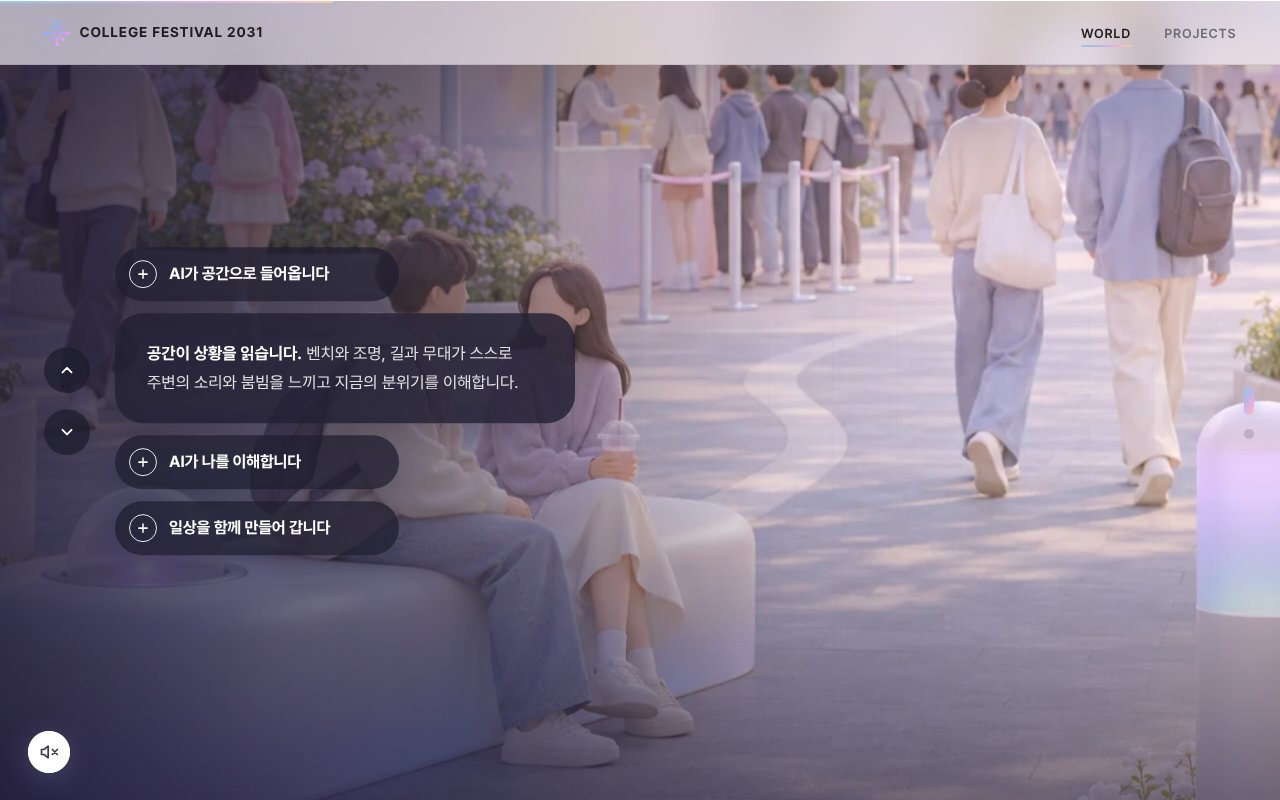
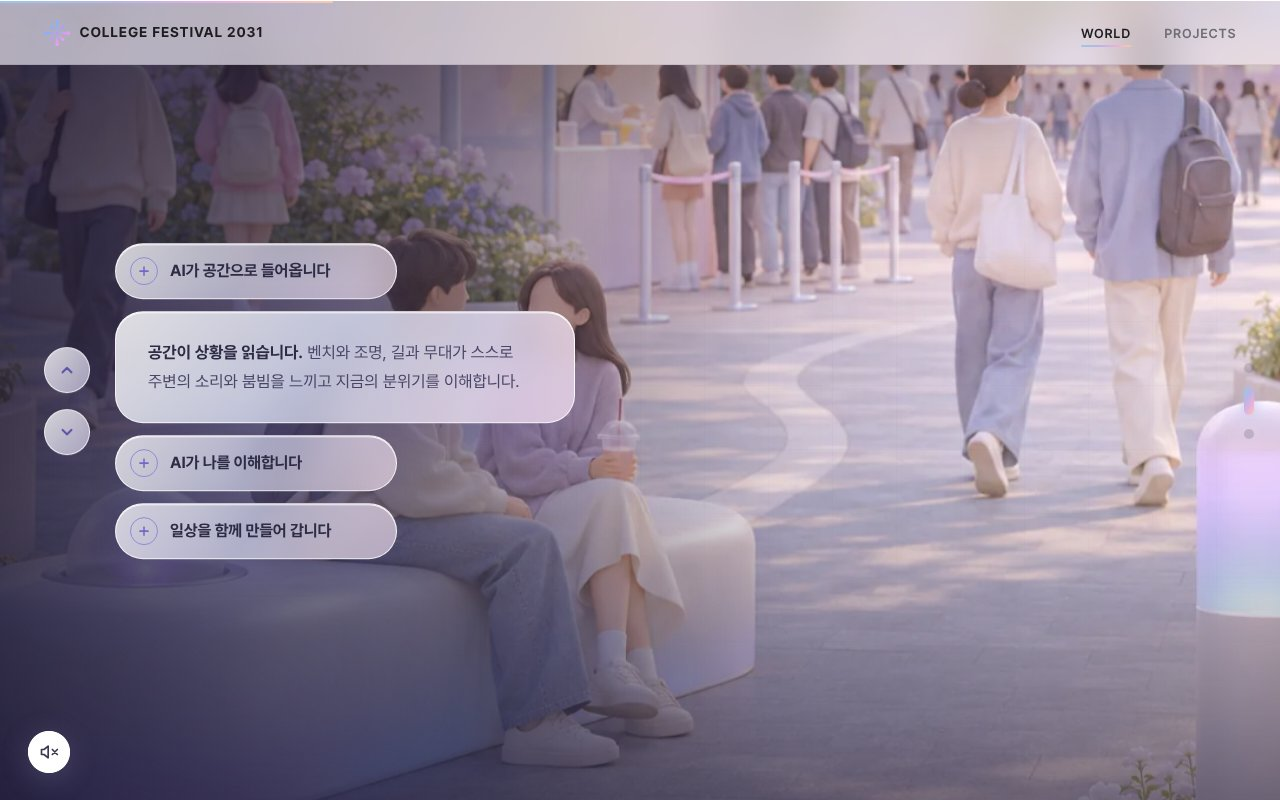
WORLD 챕터 알약·카드·화살표를 검정에서 연한 파스텔 그라데이션 글라스모피즘으로
Claude-Session: https://claude.ai/code/session_01MVD1fmE3ZHHAawXfDg3rwx

Changed region(s): [[0.0312, 0.2812, 0.4688, 0.7188]]

diff --git a/assets/css/style.css b/assets/css/style.css
@@ -1148,24 +1148,26 @@ body:has(#detail.open) .snd,body:has(#detail.open) .day-clock{opacity:0;pointer-
 #world-a .wa-copy,#world-a .wa-prog{display:none!important}
 .wa-feat{position:absolute;left:clamp(16px,3.4vw,56px);top:50%;z-index:6;display:flex;align-items:center;gap:clamp(14px,2vw,30px);opacity:0;visibility:hidden}
 .wf-arrows{display:flex;flex-direction:column;gap:16px}
-.wf-arr{width:46px;height:46px;border-radius:50%;border:0;display:grid;place-items:center;cursor:pointer;color:#fff;background:rgba(30,28,46,.74);transition:background .25s,opacity .25s,transform .25s}
-.wf-arr:hover{background:rgba(52,48,78,.9);transform:scale(1.06)}.wf-arr:disabled{opacity:.35;cursor:default;transform:none}
-.wf-arr:focus-visible,.wf-pill:focus-visible{outline:2px solid #C9C6FF;outline-offset:3px}
+.wf-arr{width:46px;height:46px;border-radius:50%;border:1px solid rgba(255,255,255,.8);display:grid;place-items:center;cursor:pointer;color:#5A54A8;background:linear-gradient(135deg,rgba(255,255,255,.78),rgba(232,228,255,.62));-webkit-backdrop-filter:blur(14px) saturate(1.3);backdrop-filter:blur(14px) saturate(1.3);box-shadow:0 8px 24px rgba(90,80,170,.16);transition:background .25s,opacity .25s,transform .25s}
+.wf-arr:hover{background:linear-gradient(135deg,rgba(255,255,255,.92),rgba(236,226,255,.8));transform:scale(1.06)}.wf-arr:disabled{opacity:.35;cursor:default;transform:none}
+.wf-arr:focus-visible,.wf-pill:focus-visible{outline:2px solid #8E8AD8;outline-offset:3px}
 .wf-list{display:flex;flex-direction:column;align-items:flex-start;gap:12px}
-.wf-pill{--pw:240px;position:relative;display:block;width:var(--pw);max-width:calc(100vw - 110px);padding:0;border:0;border-radius:30px;cursor:pointer;text-align:left;font-family:inherit;color:#fff;
-  background:rgba(30,28,46,.74);box-shadow:0 10px 30px rgba(10,8,30,.18);overflow:hidden;
+.wf-pill{--pw:240px;position:relative;display:block;width:var(--pw);max-width:calc(100vw - 110px);padding:0;border:0;border-radius:30px;cursor:pointer;text-align:left;font-family:inherit;color:#2E2B45;
+  background:linear-gradient(120deg,rgba(255,255,255,.76),rgba(232,236,255,.6) 48%,rgba(250,232,246,.62));
+  -webkit-backdrop-filter:blur(16px) saturate(1.35);backdrop-filter:blur(16px) saturate(1.35);
+  border:1px solid rgba(255,255,255,.78);box-shadow:0 10px 30px rgba(90,80,170,.16),inset 0 1px 0 rgba(255,255,255,.9);overflow:hidden;
   transition:width .55s cubic-bezier(.3,.7,.2,1),background .3s,border-radius .5s}
-.wf-pill:hover{background:rgba(48,44,72,.86)}
-.wf-pill.on{width:min(460px,calc(100vw - 110px));border-radius:28px;background:rgba(34,32,52,.84);cursor:default}
+.wf-pill:hover{background:linear-gradient(120deg,rgba(255,255,255,.9),rgba(232,236,255,.76) 48%,rgba(250,232,246,.78))}
+.wf-pill.on{width:min(460px,calc(100vw - 110px));border-radius:28px;cursor:default;background:linear-gradient(135deg,rgba(255,255,255,.84),rgba(226,234,255,.72) 45%,rgba(246,226,246,.74));box-shadow:0 18px 44px rgba(90,80,170,.22),inset 0 1px 0 rgba(255,255,255,.95)}
 .wf-hw,.wf-bw{display:grid;transition:grid-template-rows .5s cubic-bezier(.3,.7,.2,1),opacity .35s}
 .wf-hw{grid-template-rows:1fr}.wf-bw{grid-template-rows:0fr;opacity:0}
 .wf-pill.on .wf-hw{grid-template-rows:0fr;opacity:0}.wf-pill.on .wf-bw{grid-template-rows:1fr;opacity:1;transition-delay:.08s}
 .wf-clip{display:block;overflow:hidden;min-height:0}
 .wf-head{display:flex;align-items:center;gap:12px;padding:13px 22px 13px 14px;font-size:16px;font-weight:700;letter-spacing:-.01em;white-space:nowrap}
-.wf-ic{flex:none;width:28px;height:28px;border-radius:50%;border:1.6px solid rgba(255,255,255,.9);display:grid;place-items:center;transition:transform .35s}
+.wf-ic{flex:none;width:28px;height:28px;border-radius:50%;border:1.6px solid #8E8AD8;color:#6E68C8;display:grid;place-items:center;transition:transform .35s}
 .wf-pill:hover .wf-ic{transform:rotate(90deg)}
-.wf-body{display:block;width:min(460px,calc(100vw - 110px));padding:26px 32px;font-size:16.5px;line-height:1.75;color:rgba(255,255,255,.86);word-break:keep-all}
-.wf-body b{color:#fff;font-weight:700}
+.wf-body{display:block;width:min(460px,calc(100vw - 110px));padding:26px 32px;font-size:16.5px;line-height:1.75;color:#4A4668;word-break:keep-all}
+.wf-body b{color:#2E2B45;font-weight:700}
 @media (max-width:900px){
   .wa-feat{top:auto;bottom:84px;left:16px;right:16px;align-items:flex-end;gap:10px}
   .wf-arrows{display:none}

diff --git a/index.html b/index.html
@@ -5,7 +5,7 @@
 <meta name="viewport" content="width=device-width, initial-scale=1">
 <title>College Festival 2031</title>
 <link rel="icon" type="image/png" href="assets/images/logo.png">
-<link rel="stylesheet" href="./assets/css/style.css?v=264254fe">
+<link rel="stylesheet" href="./assets/css/style.css?v=078d7f10">
 </head>
 <body>
 
